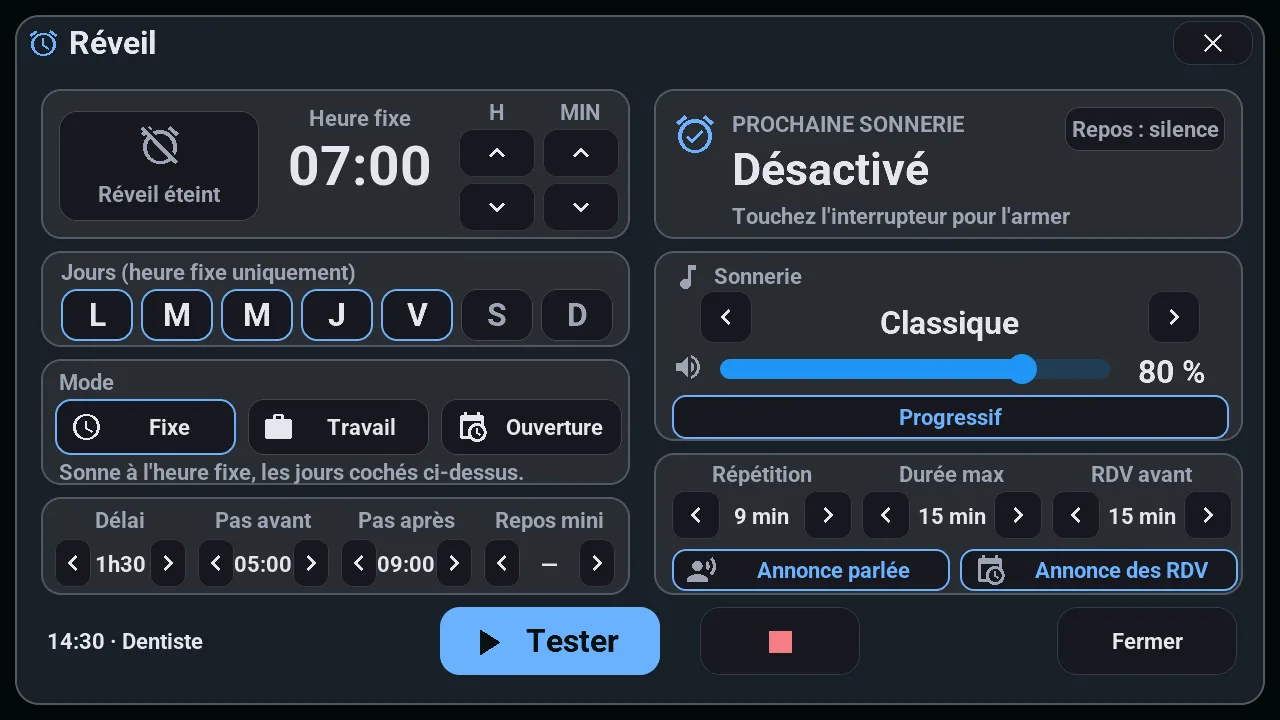
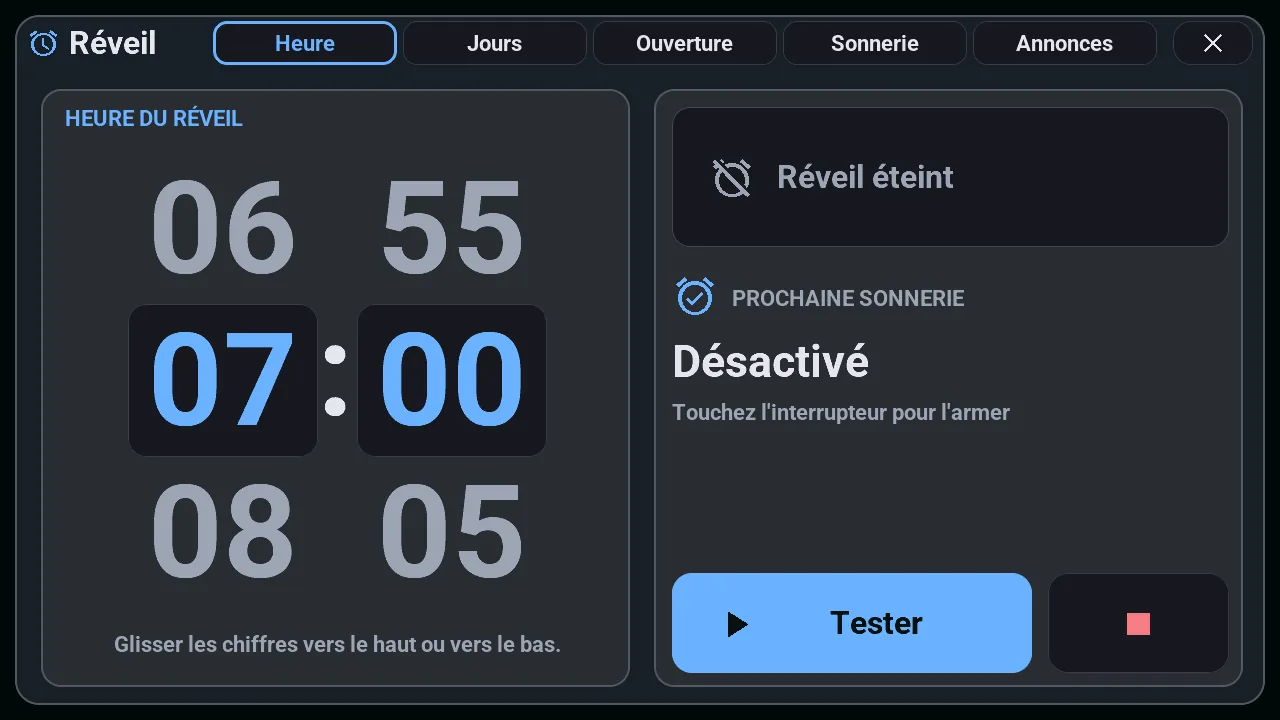
docs(readme): galerie refaite le 16/10, musique, caméras, suivi et serveur IA en plus
22 écrans, un thème chacun, en anglais et en français, tirés d'un seul run du rendu
(38880064268, branche temporaire supprimée). Énergie : la page Flux ; Réveil : la page
Heure. Nouveaux : Musique (Almanach), Caméras (Craie et ardoise, mire du rendu),
Suivi (Béton brut), Serveur IA (Ardoise). Textes alternatifs mis à jour.

diff --git a/README.md b/README.md
@@ -143,15 +143,15 @@ Just want to see it running first? The [demo mode](docs/demo_mode.md) pushes dem
 
 | Quick-action wheel (Néon calme, dark) | Lights (Bonbon, light) |
 |:-:|:-:|
-| <img src="docs/images/galerie/roue-en.webp" width="400" loading="lazy" alt="Quick-action wheel of the M5Stack Tab5 opened by a long press on a lamp: brightness steps, power and more around the finger"> | <img src="docs/images/galerie/lumieres-en.webp" width="400" loading="lazy" alt="Light popup of the M5Stack Tab5: the room's lights, a brightness arc with shortcuts, 3 whites and 12 colours"> |
+| <img src="docs/images/galerie/roue-en.webp" width="400" loading="lazy" alt="Quick-action wheel of the M5Stack Tab5 opened by a long press on the floor lamp: brightness steps, power, colours and details around the finger"> | <img src="docs/images/galerie/lumieres-en.webp" width="400" loading="lazy" alt="Light popup of the M5Stack Tab5: the room's lights, a brightness arc with shortcuts, 3 whites and 12 colours"> |
 
 | Climate (Platine et or, dark) | Shutters (Terre cuite, light) |
 |:-:|:-:|
 | <img src="docs/images/galerie/climatisation-en.webp" width="400" loading="lazy" alt="Climate popup of the M5Stack Tab5: modes, a thermostat arc set to 20 °C, presets, fan speed and airflow"> | <img src="docs/images/galerie/volet-en.webp" width="400" loading="lazy" alt="Shutter popup of the M5Stack Tab5: the shutter drawn at 45 % while it moves, with Open, Stop and Close"> |
 
-| Plant sensors (Sorbet, light) | Solar energy (Ultraviolet, dark) |
+| Plant sensors (Sorbet, light) | Energy, the flows right now (Ultraviolet, dark) |
 |:-:|:-:|
-| <img src="docs/images/galerie/plantes-en.webp" width="400" loading="lazy" alt="Plants popup of the M5Stack Tab5: five pots with soil moisture, fertility, light, temperature and battery, one of them needs water"> | <img src="docs/images/galerie/energie-en.webp" width="400" loading="lazy" alt="Energy popup of the M5Stack Tab5: solar, home, grid and battery cards, and the solar production of the last 30 days as bars"> |
+| <img src="docs/images/galerie/plantes-en.webp" width="400" loading="lazy" alt="Plants popup of the M5Stack Tab5: five pots with soil moisture, fertility, light, temperature and battery, one of them needs water"> | <img src="docs/images/galerie/energie-en.webp" width="400" loading="lazy" alt="Energy popup of the M5Stack Tab5, Flow page: solar, home, grid and battery linked by live power lines"> |
 
 | Temperature history (Almanach imprimé, light) | Monthly calendar (Zen Sumi, dark) |
 |:-:|:-:|
@@ -159,11 +159,19 @@ Just want to see it running first? The [demo mode](docs/demo_mode.md) pushes dem
 
 | Alarm clock (Graphite, dark) | Voice assistant (Obsidienne, dark) |
 |:-:|:-:|
-| <img src="docs/images/galerie/reveil-en.webp" width="400" loading="lazy" alt="Alarm clock popup of the M5Stack Tab5: a fixed time, the days, the mode, the ringtone and its volume, snooze and the next appointment"> | <img src="docs/images/galerie/assistant-en.webp" width="400" loading="lazy" alt="Voice assistant popup of the M5Stack Tab5: its settings, the request and a formatted reply with a list and a table"> |
+| <img src="docs/images/galerie/reveil-en.webp" width="400" loading="lazy" alt="Alarm clock popup of the M5Stack Tab5: the alarm time on rolling digits, its tabs (days, shift start, ringtone, announcements) and a test button"> | <img src="docs/images/galerie/assistant-en.webp" width="400" loading="lazy" alt="Voice assistant popup of the M5Stack Tab5: its settings, the request and a formatted reply with a list and a table"> |
 
 | TV remote (Signalisation, light) | Settings (Capsule, light) |
 |:-:|:-:|
-| <img src="docs/images/galerie/telecommande-tv-en.webp" width="400" loading="lazy" alt="TV remote of the M5Stack Tab5: power, source, menu, a direction pad, volume, playback and app shortcuts"> | <img src="docs/images/galerie/reglages-en.webp" width="400" loading="lazy" alt="Settings popup of the M5Stack Tab5: brightness, auto screen off, wake options, theme, light or dark, night mode and language"> |
+| <img src="docs/images/galerie/telecommande-tv-en.webp" width="400" loading="lazy" alt="TV remote of the M5Stack Tab5: power, source, menu, a direction pad, volume, playback and app shortcuts"> | <img src="docs/images/galerie/reglages-en.webp" width="400" loading="lazy" alt="Settings popup of the M5Stack Tab5, Screen page: brightness, auto screen off and wake options"> |
+
+| Music (Almanach, light) | Cameras, a still image each (Craie et ardoise, dark) |
+|:-:|:-:|
+| <img src="docs/images/galerie/musique-en.webp" width="400" loading="lazy" alt="Music popup of the M5Stack Tab5: the paused track with its progress, playback controls, volume and three players to pick from"> | <img src="docs/images/galerie/cameras-en.webp" width="400" loading="lazy" alt="Cameras popup of the M5Stack Tab5: seven cameras sorted by room, four of them in a mosaic (test pattern of the render instead of real pictures)"> |
+
+| Tracked sensors (Béton brut, light) | Local AI server (Ardoise, dark) |
+|:-:|:-:|
+| <img src="docs/images/galerie/suivi-en.webp" width="400" loading="lazy" alt="Tracking popup of the M5Stack Tab5: four followed sensors, each with its value, its change and a 24-hour curve"> | <img src="docs/images/galerie/serveur-ia-en.webp" width="400" loading="lazy" alt="AI server popup of the M5Stack Tab5: a local LLM server online, its model, tokens per second over time, VRAM, GPU temperature, RAM and power"> |
 
 | Arcade: the game menu (Pixel, dark) | Roi Noir: chess with an engine on the tablet |
 |:-:|:-:|
@@ -334,35 +342,43 @@ Envie de le voir tourner d'abord ? Le [mode démo](docs/demo_mode.md#version-fra
 
 | Accueil : la pluie dans l'heure (Bento, clair) | Toute la maison (Relief doux, clair) |
 |:-:|:-:|
-| <img src="docs/images/galerie/accueil-pluie-fr.webp" width="400" loading="lazy" alt="Accueil de la M5Stack Tab5 dans le thème Bento clair : les barres de pluie de l'heure à venir et « Pluie modérée dans 10 mn » sur la carte centrale, prévisions à 5 jours pluvieuses"> | <img src="docs/images/galerie/maison-fr.webp" width="400" loading="lazy" alt="Popup Maison de la M5Stack Tab5 : cinq pièces en colonnes, chaque appareil avec son état, et un bouton pour tout éteindre"> |
+| <img src="docs/images/galerie/accueil-pluie-fr.webp" width="400" loading="lazy" alt="Accueil de la M5Stack Tab5 en thème Bento clair : les barres de pluie de l'heure et « Pluie modérée dans 10 mn » sur la carte centrale, prévisions pluvieuses sur 5 jours"> | <img src="docs/images/galerie/maison-fr.webp" width="400" loading="lazy" alt="Popup Maison de la M5Stack Tab5 : cinq pièces en colonnes, chaque appareil avec son état, et un bouton Éteindre les lumières"> |
 
 | Roue d'actions (Néon calme, sombre) | Lumières (Bonbon, clair) |
 |:-:|:-:|
-| <img src="docs/images/galerie/roue-fr.webp" width="400" loading="lazy" alt="Roue d'actions de la M5Stack Tab5 ouverte par un appui long sur une lampe : paliers de luminosité, marche-arrêt et plus, autour du doigt"> | <img src="docs/images/galerie/lumieres-fr.webp" width="400" loading="lazy" alt="Popup lumières de la M5Stack Tab5 : les lumières de la pièce, un arc de luminosité avec raccourcis, 3 blancs et 12 couleurs"> |
+| <img src="docs/images/galerie/roue-fr.webp" width="400" loading="lazy" alt="Roue d'actions rapides de la M5Stack Tab5 ouverte par un appui long sur la lampe d'ambiance : paliers de luminosité, marche, couleurs et détails autour du doigt"> | <img src="docs/images/galerie/lumieres-fr.webp" width="400" loading="lazy" alt="Popup Lumières de la M5Stack Tab5 : les lampes de la pièce, un arc de luminosité avec raccourcis, 3 blancs et 12 couleurs"> |
 
 | Clim (Platine et or, sombre) | Volets (Terre cuite, clair) |
 |:-:|:-:|
-| <img src="docs/images/galerie/climatisation-fr.webp" width="400" loading="lazy" alt="Popup clim de la M5Stack Tab5 : modes, arc de thermostat réglé à 20 °C, préréglages, ventilation et flux d'air"> | <img src="docs/images/galerie/volet-fr.webp" width="400" loading="lazy" alt="Popup volet de la M5Stack Tab5 : le volet dessiné à 45 % pendant qu'il bouge, avec Ouvrir, Stop et Fermer"> |
+| <img src="docs/images/galerie/climatisation-fr.webp" width="400" loading="lazy" alt="Popup Climatisation de la M5Stack Tab5 : modes, un arc de consigne à 20 °C, presets, ventilation et flux d'air"> | <img src="docs/images/galerie/volet-fr.webp" width="400" loading="lazy" alt="Popup Volets de la M5Stack Tab5 : le volet dessiné à 45 % en mouvement, avec Ouvrir, Stop et Fermer"> |
 
-| Capteurs de plantes (Sorbet, clair) | Énergie solaire (Ultraviolet, sombre) |
+| Capteurs de plantes (Sorbet, clair) | Énergie, les flux en direct (Ultraviolet, sombre) |
 |:-:|:-:|
-| <img src="docs/images/galerie/plantes-fr.webp" width="400" loading="lazy" alt="Popup plantes de la M5Stack Tab5 : cinq pots avec humidité du sol, fertilité, lumière, température et batterie, l'un d'eux a soif"> | <img src="docs/images/galerie/energie-fr.webp" width="400" loading="lazy" alt="Popup Énergie de la M5Stack Tab5 : solaire, maison, réseau et batterie en direct, et la production solaire des 30 derniers jours en barres"> |
+| <img src="docs/images/galerie/plantes-fr.webp" width="400" loading="lazy" alt="Popup Mes plantes de la M5Stack Tab5 : cinq pots avec humidité, fertilité, lumière, température et batterie, l'un est à arroser"> | <img src="docs/images/galerie/energie-fr.webp" width="400" loading="lazy" alt="Popup Énergie de la M5Stack Tab5, page Flux : solaire, maison, réseau et batterie reliés par leurs puissances en direct"> |
 
 | Historique des températures (Almanach imprimé, clair) | Calendrier du mois (Zen Sumi, sombre) |
 |:-:|:-:|
-| <img src="docs/images/galerie/temperature-fr.webp" width="400" loading="lazy" alt="Popup Température de la M5Stack Tab5 : maintenant, minimum, maximum et prévision dehors, et la courbe de la serre sur 7 jours avec la prévision"> | <img src="docs/images/galerie/calendrier-fr.webp" width="400" loading="lazy" alt="Calendrier du mois de la M5Stack Tab5 avec horaires de travail, jour férié, vacances scolaires, rendez-vous et anniversaires"> |
+| <img src="docs/images/galerie/temperature-fr.webp" width="400" loading="lazy" alt="Popup Température de la M5Stack Tab5 : actuelle, minimum, maximum et prévision dehors, et la courbe de la serre sur 7 jours avec la prévision"> | <img src="docs/images/galerie/calendrier-fr.webp" width="400" loading="lazy" alt="Calendrier du mois de la M5Stack Tab5 : horaires de travail, férié, vacances scolaires, rendez-vous et anniversaires"> |
 
 | Réveil (Graphite, sombre) | Assistant vocal (Obsidienne, sombre) |
 |:-:|:-:|
-| <img src="docs/images/galerie/reveil-fr.webp" width="400" loading="lazy" alt="Popup réveil de la M5Stack Tab5 : heure fixe, jours, mode, sonnerie et volume, répétition et prochain rendez-vous"> | <img src="docs/images/galerie/assistant-fr.webp" width="400" loading="lazy" alt="Popup de l'assistant vocal de la M5Stack Tab5 : ses réglages, la demande et une réponse mise en forme, avec une liste et un tableau"> |
+| <img src="docs/images/galerie/reveil-fr.webp" width="400" loading="lazy" alt="Popup Réveil de la M5Stack Tab5 : l'heure du réveil sur des chiffres à faire défiler, ses onglets (jours, ouverture, sonnerie, annonces) et un bouton Tester"> | <img src="docs/images/galerie/assistant-fr.webp" width="400" loading="lazy" alt="Popup Assistant vocal de la M5Stack Tab5 : ses réglages, la demande et une réponse mise en forme avec liste et tableau"> |
 
 | Télécommande TV (Signalisation, clair) | Réglages (Capsule, clair) |
 |:-:|:-:|
-| <img src="docs/images/galerie/telecommande-tv-fr.webp" width="400" loading="lazy" alt="Télécommande TV de la M5Stack Tab5 : marche, source, menu, croix, volume, lecture et raccourcis d'applications"> | <img src="docs/images/galerie/reglages-fr.webp" width="400" loading="lazy" alt="Popup Réglages de la M5Stack Tab5 : luminosité, extinction auto, réveil de l'écran, thème, clair ou sombre, nuit et langue"> |
+| <img src="docs/images/galerie/telecommande-tv-fr.webp" width="400" loading="lazy" alt="Télécommande TV de la M5Stack Tab5 : marche, source, menu, pavé directionnel, volume, lecture et raccourcis d'applis"> | <img src="docs/images/galerie/reglages-fr.webp" width="400" loading="lazy" alt="Popup Réglages de la M5Stack Tab5, page Écran : luminosité, extinction auto et options de réveil de l'écran"> |
+
+| Musique (Almanach, clair) | Caméras, une image fixe chacune (Craie et ardoise, sombre) |
+|:-:|:-:|
+| <img src="docs/images/galerie/musique-fr.webp" width="400" loading="lazy" alt="Popup Musique de la M5Stack Tab5 : le morceau en pause et sa progression, les commandes de lecture, le volume et trois lecteurs au choix"> | <img src="docs/images/galerie/cameras-fr.webp" width="400" loading="lazy" alt="Popup Caméras de la M5Stack Tab5 : sept caméras rangées par pièce, quatre d'entre elles en mosaïque (mire du rendu à la place des vraies images)"> |
+
+| Capteurs suivis (Béton brut, clair) | Serveur IA local (Ardoise, sombre) |
+|:-:|:-:|
+| <img src="docs/images/galerie/suivi-fr.webp" width="400" loading="lazy" alt="Popup Suivi de la M5Stack Tab5 : quatre capteurs suivis, chacun avec sa valeur, sa variation et sa courbe sur 24 h"> | <img src="docs/images/galerie/serveur-ia-fr.webp" width="400" loading="lazy" alt="Popup Serveur IA de la M5Stack Tab5 : un serveur LLM local en ligne, son modèle, les jetons par seconde dans le temps, VRAM, température GPU, RAM et puissance"> |
 
 | Arcade : le menu des jeux (Pixel, sombre) | Roi Noir : des échecs avec un moteur sur la tablette |
 |:-:|:-:|
-| <img src="docs/images/galerie/arcade-fr.webp" width="400" loading="lazy" alt="Menu Arcade de la M5Stack Tab5 avec huit jeux hors ligne dessinés avec LVGL"> | <img src="docs/images/galerie/roi-noir-fr.webp" width="400" loading="lazy" alt="Jeu d'échecs Roi Noir sur la M5Stack Tab5 ESP32-P4, avec son moteur embarqué"> |
+| <img src="docs/images/galerie/arcade-fr.webp" width="400" loading="lazy" alt="Menu Arcade de la M5Stack Tab5 avec huit jeux hors ligne dessinés avec LVGL"> | <img src="docs/images/galerie/roi-noir-fr.webp" width="400" loading="lazy" alt="Échecs Roi Noir sur la M5Stack Tab5 ESP32-P4, avec son moteur embarqué"> |
 
 | Coureur d'Or : façon Lode Runner | Arcanoïde : un casse-briques joué en inclinant la tablette |
 |:-:|:-:|
